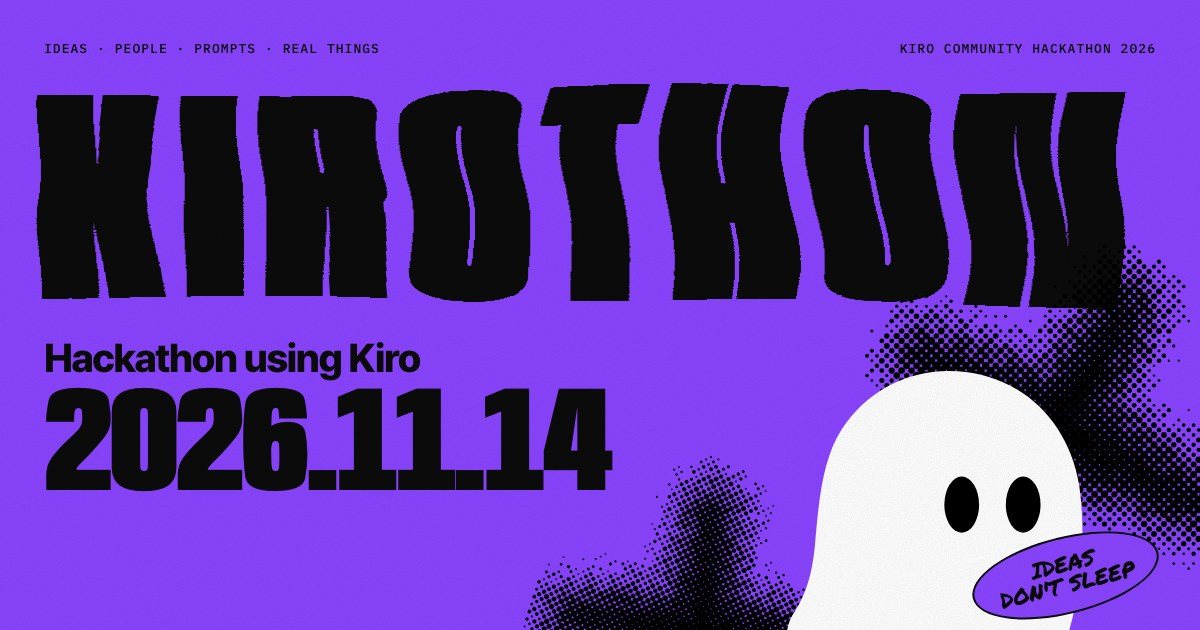
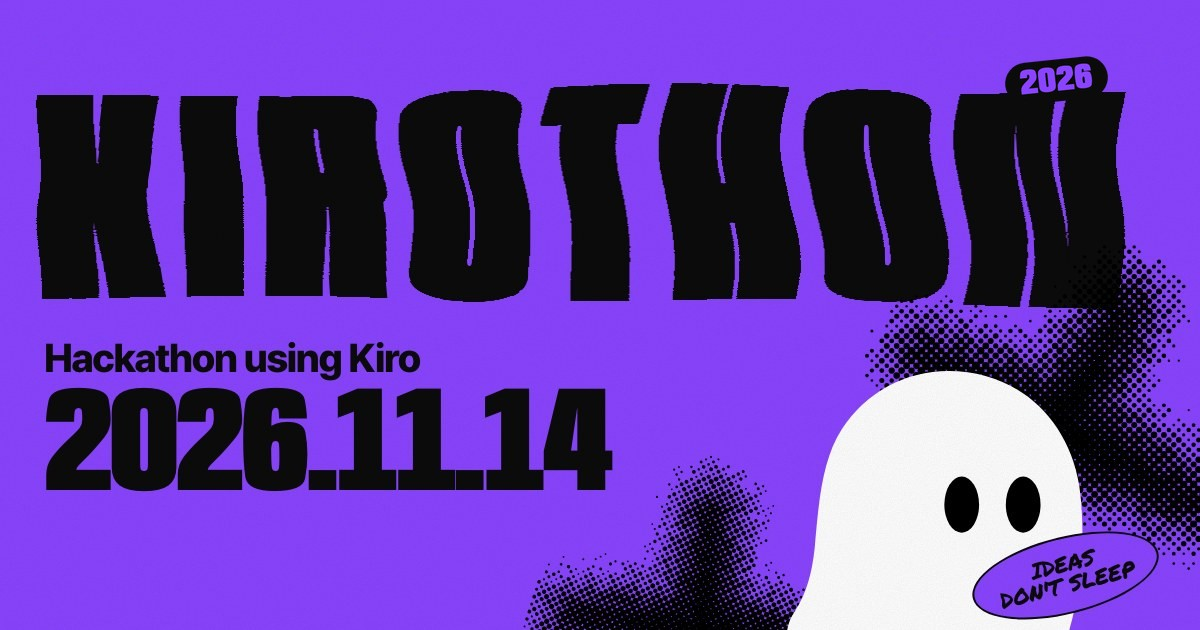
Add schedule milestones, contact email, domain and year tag
- Schedule: application opens 10.20 (TUE); 11.09 now covers both the
  application deadline and participant confirmation, with a note that
  confirmation emails go out on a rolling basis
- Contact: awsstudentbuildergroup@gmail.com in the FAQ and footer
- Name is "KIROTHON 2026": drop the "Kiro community hackathon" line
  from the footer and add a "2026" tag to the hero title
- Share image: remove both top labels and add the same "2026" tag
- Point canonical, og:url and og:image at https://kirothon.ausg.me and
  document the custom domain setup in the README

Changed region(s): [[0.74, 0.0603, 0.9558, 0.181], [0.0308, 0.0603, 0.3083, 0.0905]]

diff --git a/public/index.html b/public/index.html
@@ -13,11 +13,14 @@
   -->
   <meta name="kirothon:apply-url" content="https://forms.gle/RNb9ki21iVRuFQWD8" />
 
-  <!-- 배포 도메인이 정해지면 og:url / og:image를 절대 경로(https://...)로 바꿔 주세요. -->
+  <!-- 링크 미리보기(카카오톡·슬랙 등)는 전체 주소가 필요해서 도메인을 포함해 적어 둡니다. -->
+  <link rel="canonical" href="https://kirothon.ausg.me/" />
   <meta property="og:type" content="website" />
+  <meta property="og:url" content="https://kirothon.ausg.me/" />
+  <meta property="og:site_name" content="KIROTHON 2026" />
   <meta property="og:title" content="KIROTHON 2026 — Hackathon using Kiro" />
   <meta property="og:description" content="Turn your idea into reality. 2026.11.14, Kiro와 함께 아이디어를 진짜로 만드는 해커톤. 1~4인 팀으로 참가하세요." />
-  <meta property="og:image" content="/assets/img/og.jpg" />
+  <meta property="og:image" content="https://kirothon.ausg.me/assets/img/og.jpg" />
   <meta property="og:image:width" content="1200" />
   <meta property="og:image:height" content="630" />
   <meta property="og:locale" content="ko_KR" />
@@ -95,6 +98,8 @@
           <text class="title-svg__text" x="2006" y="1286" textLength="988" lengthAdjust="spacingAndGlyphs" filter="url(#wave)">KIROTHON</text>
         </svg>
       </h1>
+      <!-- 행사 명칭 "KIROTHON 2026"의 연도: 타이틀 오른쪽 위에 태그로 -->
+      <span class="hero__year" aria-hidden="true">2026</span>
     </div>
 
     <div class="hero__body">
@@ -340,10 +345,18 @@
 
         <ol class="timeline">
           <li class="timeline__row" data-reveal>
+            <p class="timeline__date">10.20 <small>TUE</small></p>
+            <div class="timeline__body">
+              <h3>참가 신청 접수 시작</h3>
+              <p>구글 폼으로 참가 신청을 받아요.</p>
+            </div>
+          </li>
+          <li class="timeline__row" data-reveal>
             <p class="timeline__date">11.09 <small>MON</small></p>
             <div class="timeline__body">
-              <h3>참가 신청 마감</h3>
-              <p>구글 폼으로 11월 9일(월)까지 신청할 수 있어요.</p>
+              <h3>신청 마감 · 참가 확정</h3>
+              <p>11월 9일(월)까지 신청을 받고, 참가 확정도 이날까지 마무리돼요.</p>
+              <p class="timeline__note">참가 확정 메일은 신청 기간 동안 순차적으로 보내드릴 예정이에요.</p>
             </div>
           </li>
           <li class="timeline__row timeline__row--main" data-reveal>
@@ -393,7 +406,7 @@
           </details>
           <details class="qa" data-reveal>
             <summary>궁금한 점은 어디로 문의하나요?</summary>
-            <div class="qa__a"><p>문의 채널은 추후 공개됩니다.</p></div>
+            <div class="qa__a"><p><a href="mailto:awsstudentbuildergroup@gmail.com">awsstudentbuildergroup@gmail.com</a>으로 메일 보내 주세요.</p></div>
           </details>
         </div>
       </div>
@@ -480,11 +493,11 @@
       <div class="footer__brand">
         <svg class="footer__ghost" aria-hidden="true"><use href="#i-ghost" /></svg>
         <p class="footer__name">KIROTHON<span>2026</span></p>
-        <p class="mono">Kiro community hackathon 2026</p>
       </div>
       <div class="footer__meta mono">
         <p>Organized by<br /><strong>AUSG × ASBG</strong></p>
         <p>Sponsored by<br /><strong>AWS</strong></p>
+        <p>Contact<br /><a class="footer__mail" href="mailto:awsstudentbuildergroup@gmail.com">awsstudentbuildergroup@gmail.com</a></p>
         <p><a href="https://kiro.dev" target="_blank" rel="noopener noreferrer">kiro.dev ↗</a></p>
       </div>
       <div class="footer__end mono">

diff --git a/public/assets/css/style.css b/public/assets/css/style.css
@@ -483,6 +483,25 @@ svg {
   margin: clamp(10px, 1.6vw, 24px) calc(var(--gutter) * -0.35) 0;
 }
 
+/* 연도 태그: 푸터 로고처럼 이름 오른쪽 위에 붙임 */
+.hero__year {
+  position: absolute;
+  z-index: 3;
+  top: 0;
+  right: 1.5%;
+  padding: 0.12em 0.42em 0.06em;
+  border-radius: 999px;
+  background: var(--ink);
+  color: var(--purple);
+  font-family: var(--font-display);
+  font-weight: 900;
+  font-stretch: 70%;
+  font-size: clamp(22px, 3vw, 48px);
+  line-height: 1;
+  letter-spacing: 0.02em;
+  transform: translateY(-55%) rotate(-6deg);
+}
+
 .title-svg {
   width: 100%;
   height: 50vw;
@@ -1461,6 +1480,12 @@ svg {
   font-size: 16px;
 }
 
+.timeline__body .timeline__note {
+  margin-top: 4px;
+  font-size: 14px;
+  opacity: 0.72;
+}
+
 .timeline__row--main {
   margin-top: 16px;
   background: var(--ink);
@@ -1930,6 +1955,14 @@ svg {
 .footer__meta a {
   text-decoration-thickness: 1px;
   text-underline-offset: 3px;
+}
+
+/* 이메일은 대문자로 바꾸지 않고, 좁은 화면에서는 줄바꿈 허용 */
+.footer__mail {
+  color: var(--paper);
+  text-transform: none;
+  letter-spacing: 0.02em;
+  overflow-wrap: anywhere;
 }
 
 .footer__meta a:hover {

diff --git a/README.md b/README.md
@@ -79,11 +79,11 @@ npx wrangler pages deploy
 
 저장소를 Import하면 `vercel.json` 설정(`outputDirectory: public`)대로 그대로 배포됩니다. Framework Preset은 `Other`로 두면 됩니다.
 
-### 배포 후 할 일
+### 도메인 연결 (kirothon.ausg.me)
 
-카카오톡·슬랙 등에서 링크 미리보기가 잘 나오도록, 도메인이 정해지면 `index.html`의 `og:image`를 절대 주소로 바꾸고 `og:url`을 추가해 주세요.
+`index.html`의 대표 주소(`canonical`, `og:url`)와 링크 미리보기 이미지(`og:image`)는 `https://kirothon.ausg.me` 기준으로 적혀 있습니다. 도메인을 바꾸면 이 세 곳도 함께 고쳐 주세요.
 
-```html
-<meta property="og:url" content="https://kirothon.example.com/" />
-<meta property="og:image" content="https://kirothon.example.com/assets/img/og.jpg" />
-```
+- **Cloudflare Pages:** 프로젝트 → Custom domains → `kirothon.ausg.me` 추가. `ausg.me`의 DNS가 Cloudflare에 있으면 레코드가 자동으로 만들어지고, 아니면 DNS에 `kirothon` CNAME → `<프로젝트이름>.pages.dev`를 추가합니다.
+- **Vercel:** 프로젝트 → Settings → Domains → `kirothon.ausg.me` 추가 후, 안내되는 CNAME 레코드(`kirothon` → `cname.vercel-dns.com`)를 DNS에 추가합니다.
+
+배포 후에는 [카카오 공유 디버거](https://developers.kakao.com/tool/debugger/sharing)에서 주소를 넣어 미리보기가 잘 나오는지 확인하고, 이미지를 바꾼 뒤에는 같은 곳에서 캐시를 초기화해 주세요.
